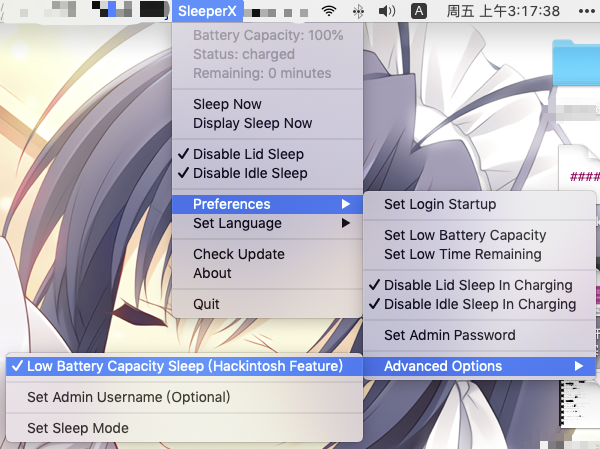
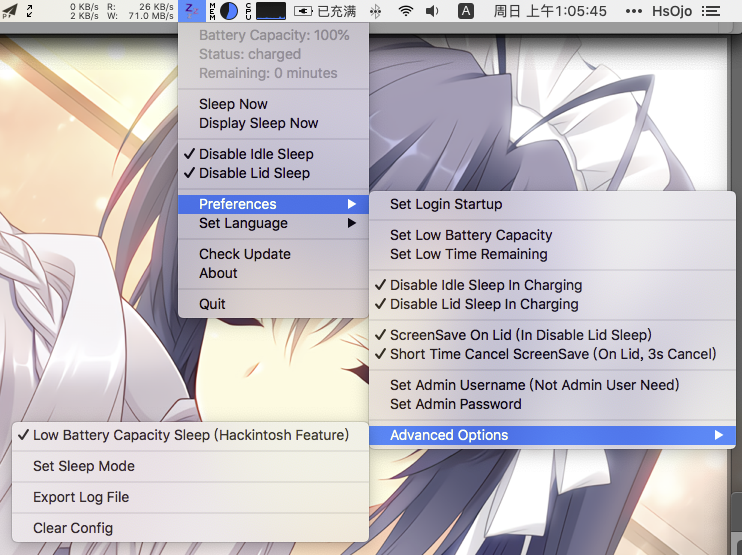
Update Document.

diff --git a/README_CN.md b/README_CN.md
@@ -25,7 +25,7 @@ python3 build.py
 
 ## 提交Bug
 
-如果你在这应用遇到问题，你可以点击关于菜单，并且输入指令 ':export log'。
+如果你在这个应用遇到问题，您可以尝试导出日志（在“偏好设置”-“高级选项”），并发送到这个项目的 issues 页面。
 
 这将会导出日志文件到目录，你的隐私数据将会被屏蔽文字所替换。
 

diff --git a/README.md b/README.md
@@ -24,7 +24,7 @@ python3 build.py
 
 ## Report Bug
 
-If you meet some bug in this app, you can click about menu, and input command ':export log'.
+If you meet some bug in this app, You can try to export log (in "Preferences" - "Advanced Options"), and send to this project issues page.
 
 It will be export log file to directory, your private data will replace with hider text.
 
